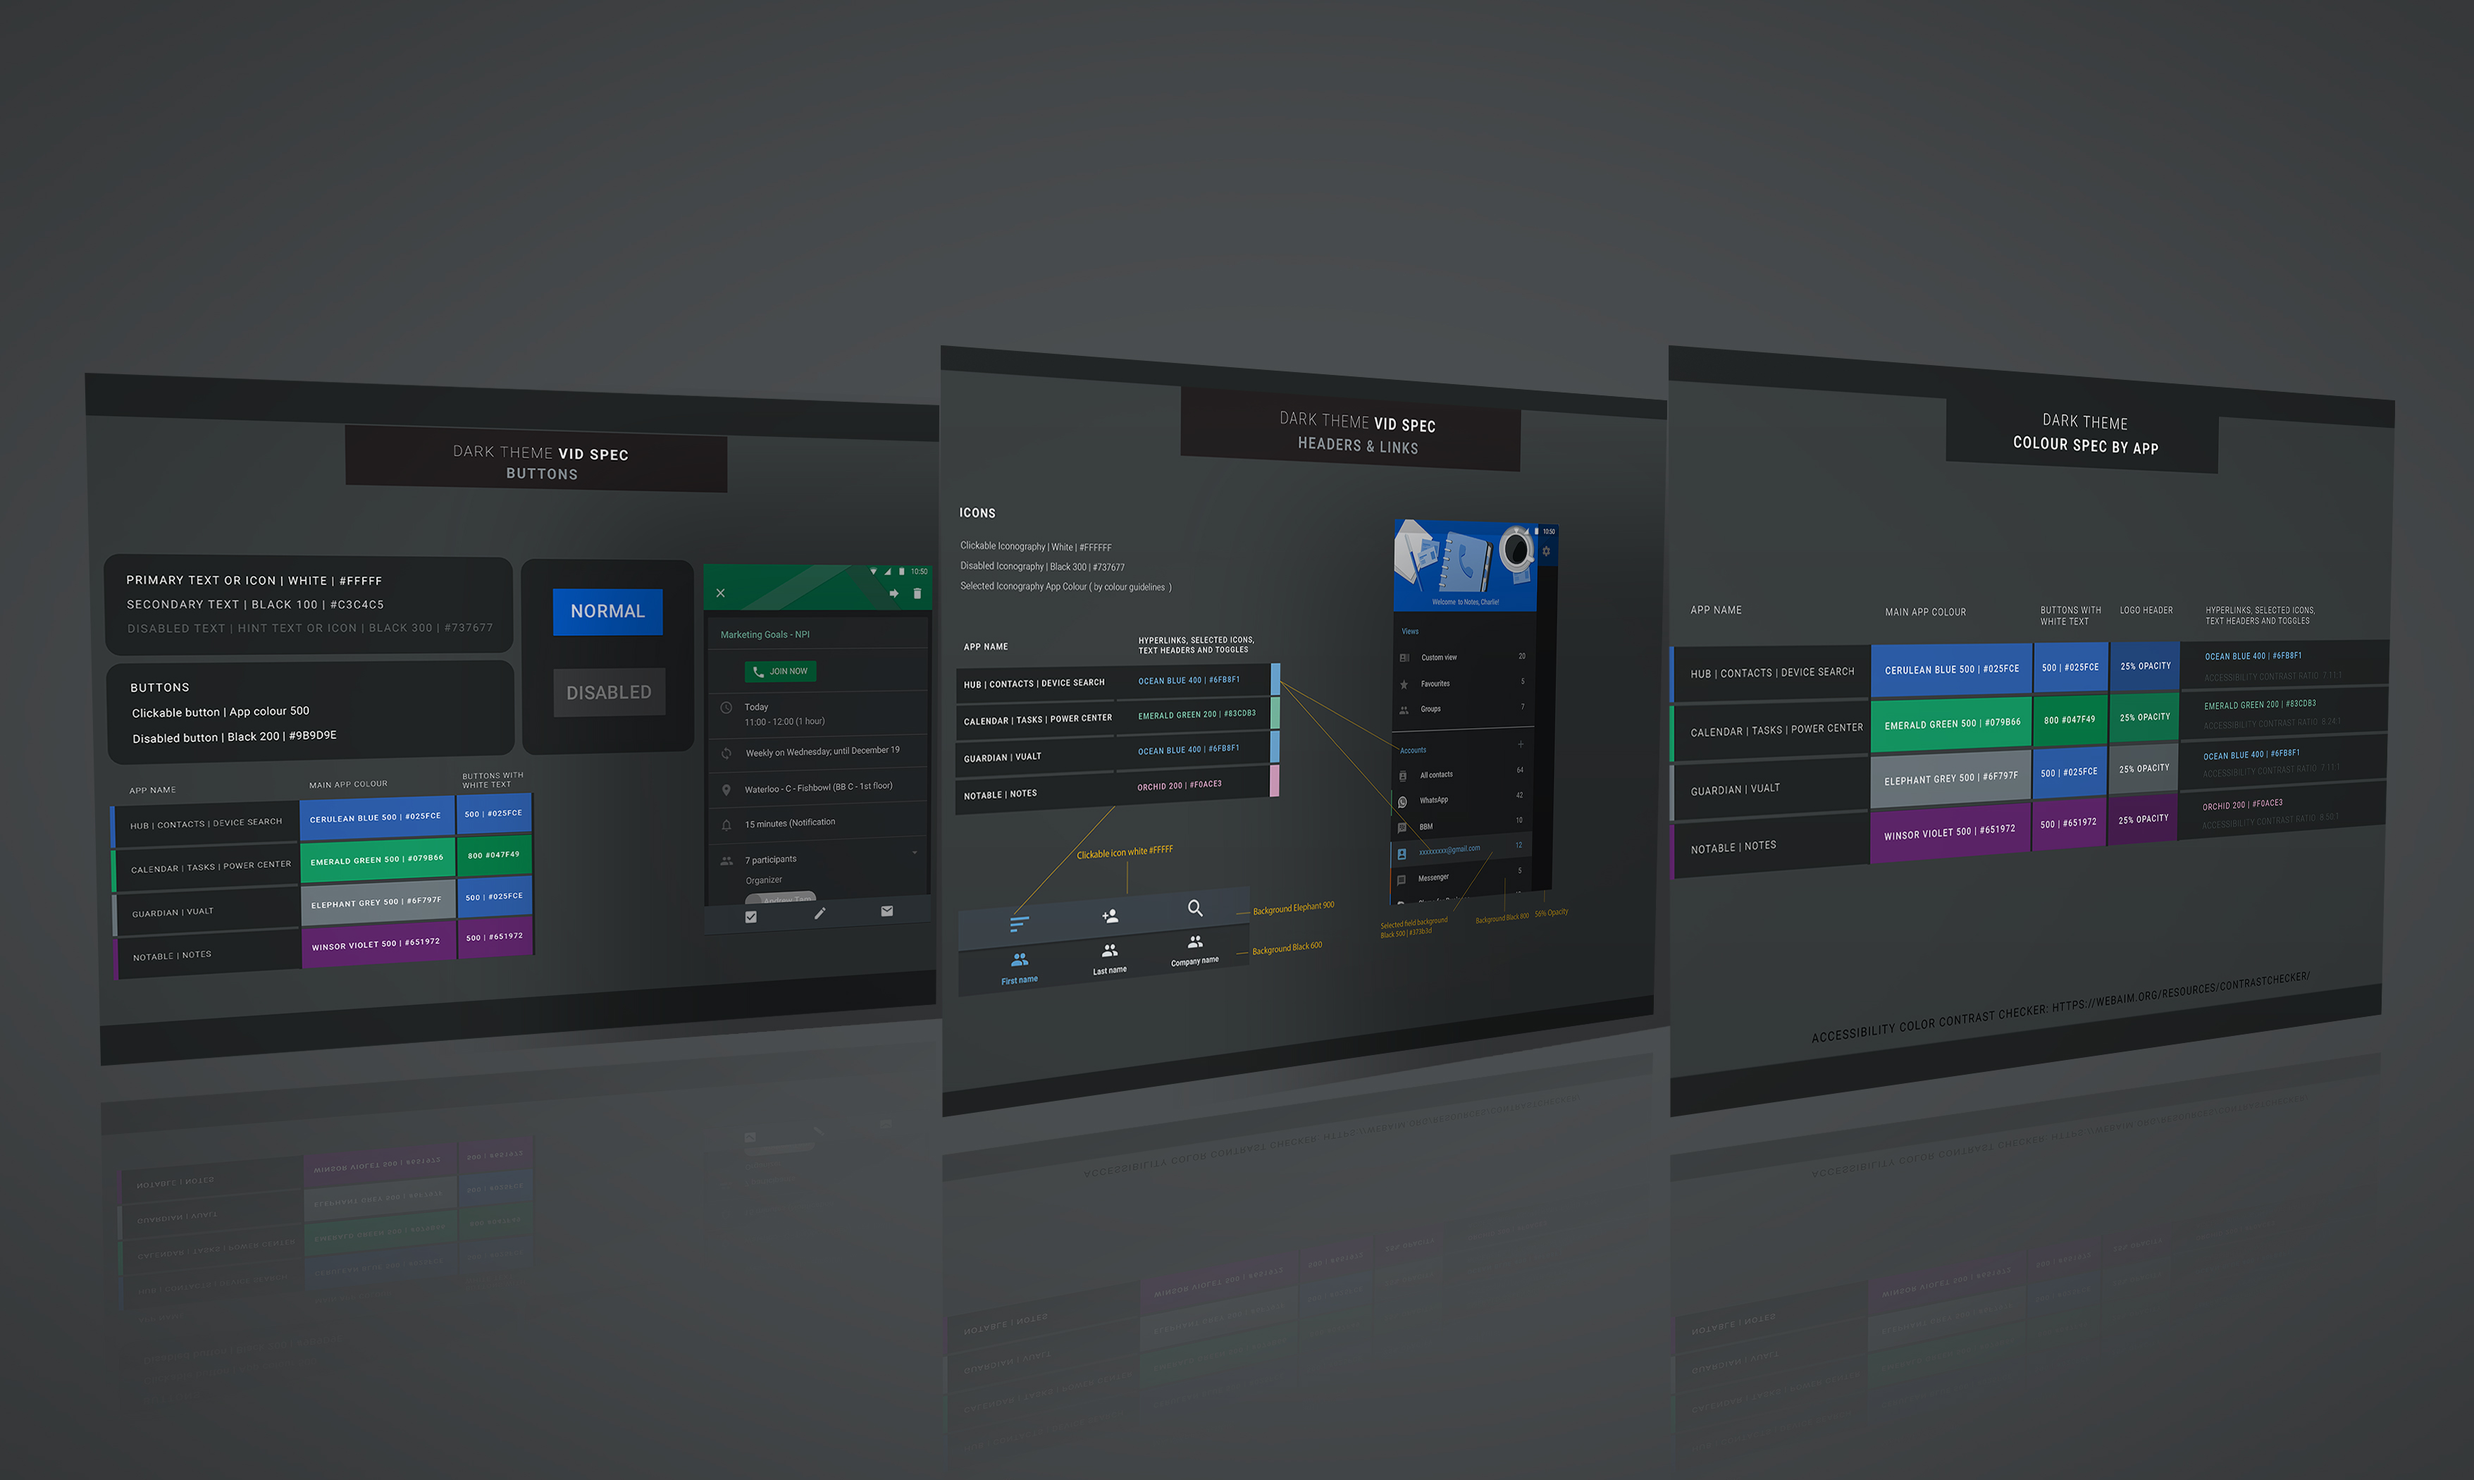
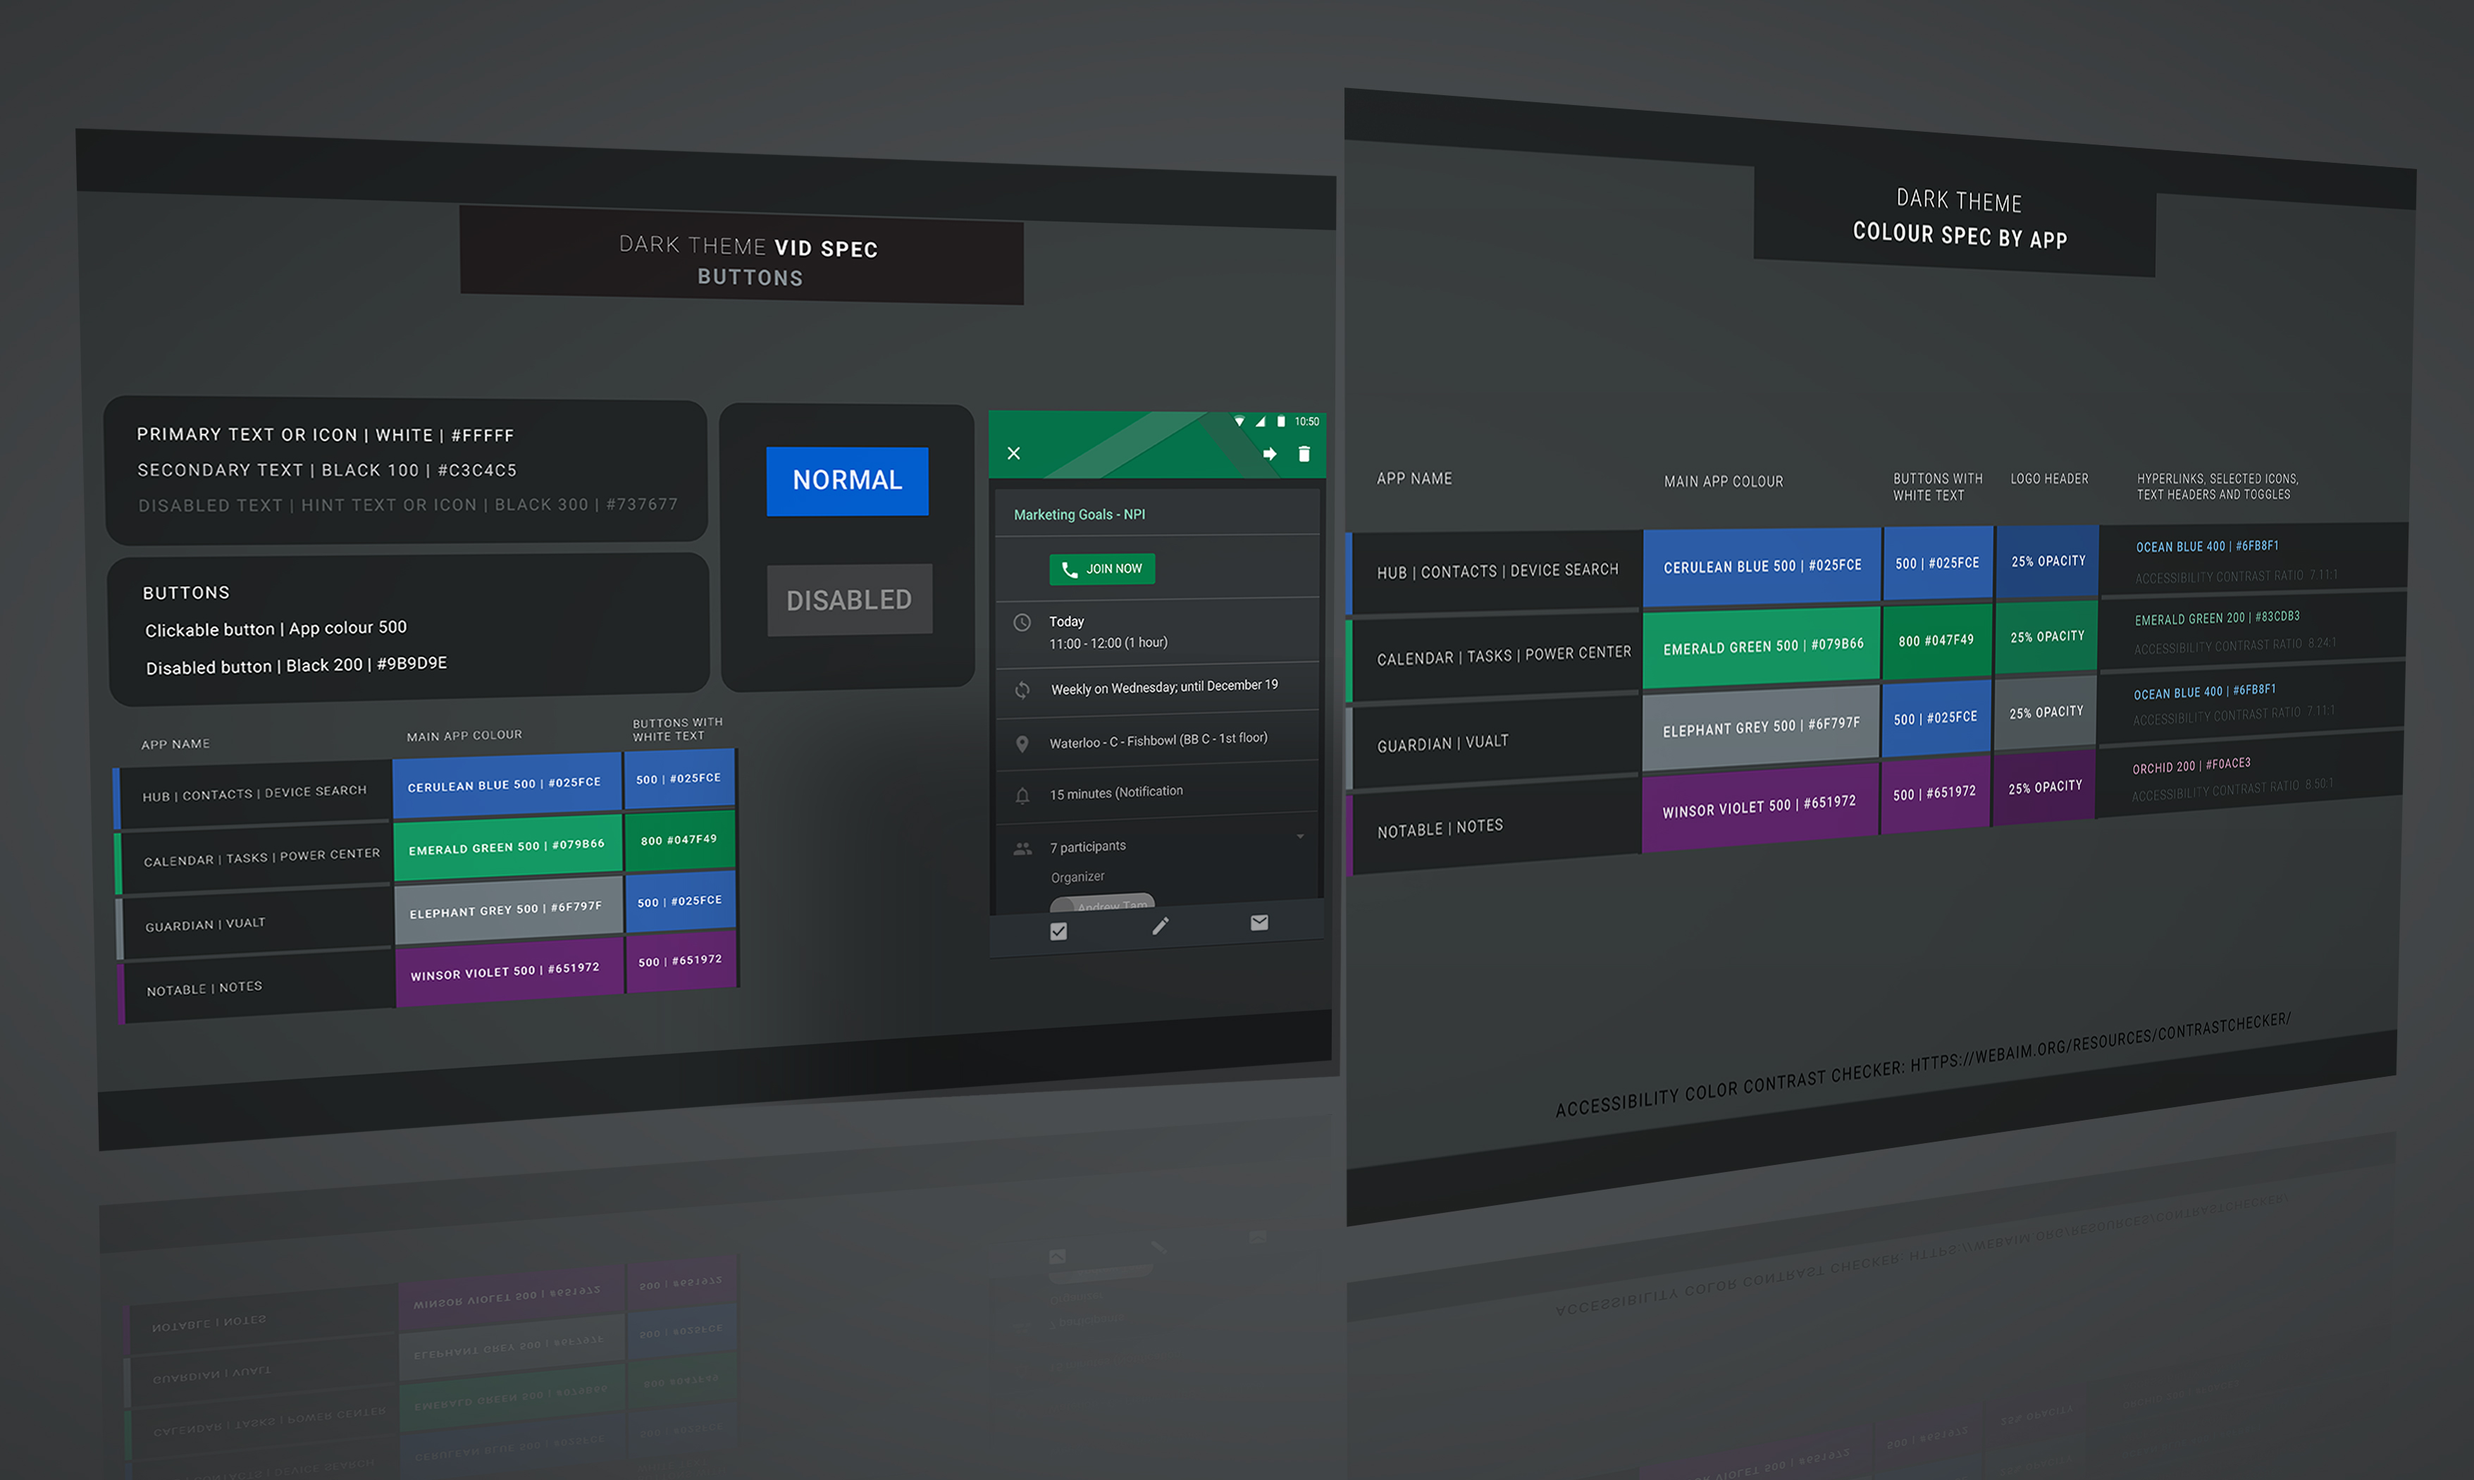
dark mode post

Changed region(s): [[0.031, 0.0619, 0.9934, 0.8357]]

diff --git a/_posts/2021-06-31-p_DarkThemeAccessabilty_BB.md b/_posts/2021-06-31-p_DarkThemeAccessabilty_BB.md
@@ -22,16 +22,18 @@ featured_image: /assets/posts/2020-01-01-bp_Colour_Accessabilty_DarkLight/fp_ph_
 #### Colour, accessibility and UI for card based design.
 
 Design is about functionality! Accessibility is something I never skip, especially for a dark mode design. Not everyone may feel more comfortable, less tired and more focused while using Dark Mode. Designing for a dark background requires specific accessibility guidelines to consider. 
-I was leading the design of Dark Mode for BlackBerry HUB+ prodcuts. Including secure apps suite like; Inbox, Calendar, Notes, Password, Battery Power & Guardian Security. 
+I was leading the design of Dark Mode for BlackBerry HUB+ prodcuts. Including secure apps suite like; Secure Inbox, Calendar, Notes, Tasks, Password, Battery Power Center & other Guardian Security apps. 
 And responsible for creating Design Guidelines that has the right colour tones for the different elements in card based design. 
 
 <br>
 
-![Dark Mode UI](assets/posts/2020-01-01-bp_Colour_Accessabilty_DarkLight/allapss_darkmode_mock.png "Dark Mode UI")
-
-
 
 ![Dark Mode Code](assets/posts/2020-01-01-bp_Colour_Accessabilty_DarkLight/empty_Dark_VID_spec_Page_7.png "Dark Mode Code")
+
+![Dark Mode UI](assets/posts/2020-01-01-bp_Colour_Accessabilty_DarkLight/allapss_darkmode_mock.png "Dark Mode UI")
+###### Dark Mode Design for BlackBerry HUB+ - Including Secure Inbox App, Calendar, Contacts, Notes, Tasks, Passwords Keeper, Power Battery Center and other security focused apps.  
+
+
 
 
 
@@ -43,15 +45,9 @@ Color contrast and tones used on a dark theme are vital for all users but especi
 <br>
 
 
-![Dark Mode Code](assets/posts/2020-01-01-bp_Colour_Accessabilty_DarkLight/DArkThemMockup.jpg "Dark Mode Code")
+I was testing and exploring different variations with essential consideration for the various content levels on a dark mode. Especially with a card-based design where shadows cannot be perceived the same as with the light theme. I have been experimenting with different shades of grey that can help to communicate visual hierarchy—avoiding using 100% black because pure black is too hard on the eye.
 
 
-
-<br>
-
-
-
-I was testing and exxploring differnt variations with essential consideration for the different content levels on a dark mode. Especially with a card-based design where shadows cannot be perceived the same as with the light theme. I have been experimenting with different shades of grey that can help to communicate visual hierarchy. Avoiding using 100% black because pure black is too hard on the eye.  
 <br>
 
 ![Dark Mode UI](assets/posts/2020-01-01-bp_Colour_Accessabilty_DarkLight/dark_vid_spec_v2_2_20190416-8.jpg "Dark Mode UI")
@@ -62,6 +58,15 @@ I was testing and exxploring differnt variations with essential consideration fo
 <br>
 
 While creating the Dark Theme Guidelines for BlackBerry Products, I also had the opportunity to investigate the different aspects and challenges of accessibility. Dark mode may be the next hot design feature but can also create many accessibility issues. For some people, dark themes are more accessible, for others, the light theme would be preferable. The bottom line, users need to have personalization. And have both a dark theme and a light theme and allow users to select the theme that works best for them. Make switching between dark themes and light themes obvious and easy to find. The goal is to create products that will be easy to use, accessible for everyone and effective. 
+
+<br>
+
+
+![Dark Mode Code](assets/posts/2020-01-01-bp_Colour_Accessabilty_DarkLight/DArkThemMockup.jpg "Dark Mode Code")
+
+
+
+<br>
 
 
 
